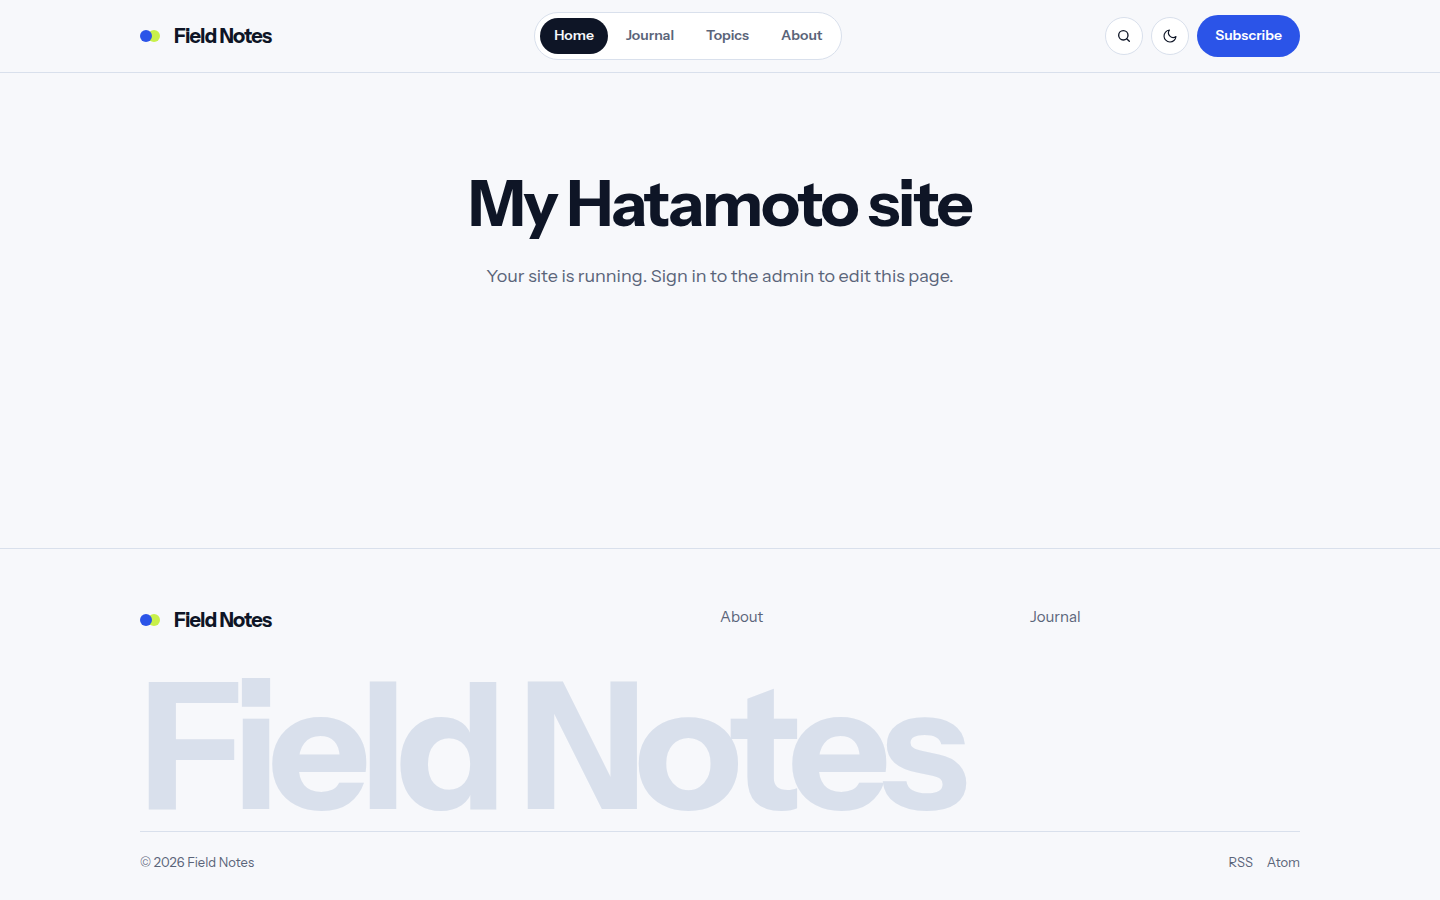
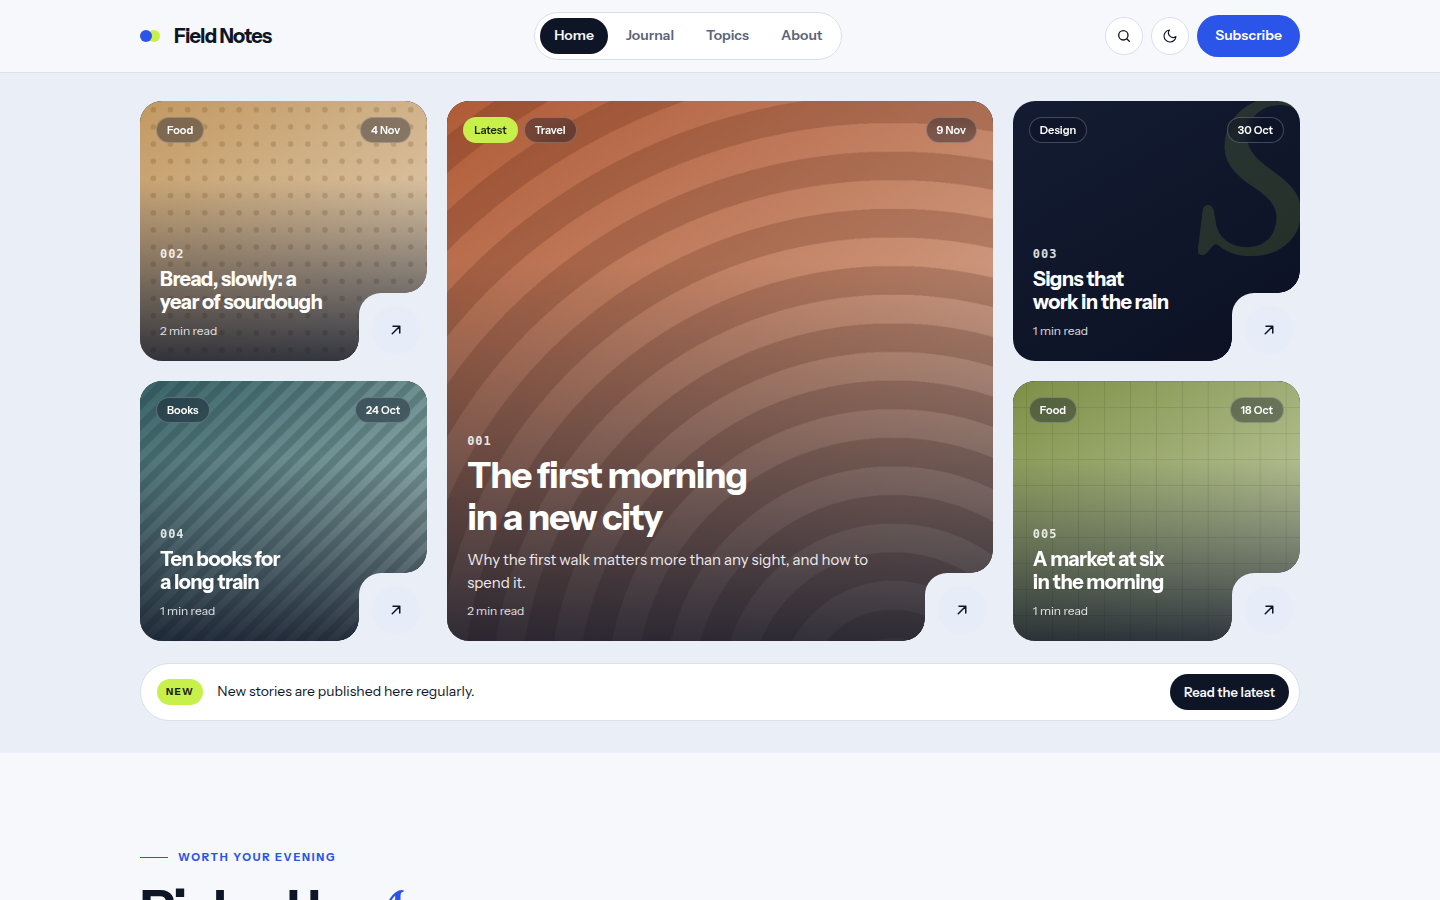
feat(wa): readme, changelog and registry screenshot

diff --git a/themes/wa/README.md b/themes/wa/README.md
@@ -2,6 +2,8 @@
 
 Bold magazine blog theme: a mosaic hero of notched image cards, numbered picks, topic chips and a night band, in cobalt and lime on cool paper.
 
+"Wa" is the Japanese word for a ring and for harmony. Rounded cards with one square notch, one strong colour, one sharp accent. Light and dark.
+
 ![Wa](assets/screenshot.png)
 
 A theme for [Hatamoto](https://hatamoto.dev), built for blog sites.
@@ -19,16 +21,60 @@ hatamoto theme activate wa
 Layouts and sections the theme does not ship come from the built-in theme, so every
 page keeps rendering.
 
+## What it ships
+
+- Home, single post, plain page, archive, category and tag, author, search and 404 layouts.
+- A header with a pill menu, search, a colour toggle and a button; a menu that works without JavaScript on small screens.
+- A home page filled from your posts and topics: a mosaic hero of the latest five, an announcement pill, numbered picks, a ticker, topic chips, a dark band with an archive grid and a newsletter call to action, and a reading queue. Every block hides itself when there is nothing to show.
+- Posts with a contents list, a drop cap, share buttons, a byline and author box, previous and next links and more from the same topic.
+- Cards without a featured image get a typographic tile, drawn inline.
+- Light and dark. No JavaScript is needed for anything except the colour toggle.
+
 ## Settings
 
-**Theme > Themes > Wa > Settings**:
+**Theme > Themes > Wa > Settings**. Every setting has a default.
 
-| Setting | Default | What it does |
-| --- | --- | --- |
-| Colour mode | `light` | what a first visit shows: `light`, `dark` or `auto` (follows the system); visitors can still switch |
-| Spacing | `comfortable` | `compact` tightens the space between sections |
+| Setting | Type | Default | What it does |
+| --- | --- | --- | --- |
+| Colour mode (`color_mode`) | `light`, `dark`, `auto` | `auto` | What a first visit shows; `auto` follows the system. Visitors can still switch with the header toggle. |
+| Spacing (`density`) | `comfortable`, `compact` | `comfortable` | `compact` tightens the space between sections. |
+| Show the ticker (`show_ticker`) | on/off | on | The strip of topics and recent titles under the picks. |
+| Show topics (`show_topics`) | on/off | on | The topic chips section. |
+| Show the archive band (`show_archive_band`) | on/off | on | The dark band with older stories (needs more than five posts). |
+| Show the newsletter block (`show_newsletter`) | on/off | on | The call to action in the dark band. It links to a page and has no form. |
+| Picks heading (`picks_heading`) | text | `Picked by` | Heading of the picks section. |
+| Picks accent word (`picks_accent`) | text | empty | The italic word after it. Empty uses the first name of the featured post's author, or "us". |
+| Archive heading, accent, end (`archive_heading`, `archive_accent`, `archive_tail`) | text | `Worth a`, `second`, `read` | The archive band heading. |
+| Reading queue heading, accent, end (`queue_heading`, `queue_accent`, `queue_tail`) | text | `Don't`, `miss`, `these` | The last section's heading. |
+| Announcement text (`announce_text`) | text | `New stories are published here regularly.` | The pill under the hero. Empty hides it. |
+| Announcement button (`announce_label`) | text | `Read the latest` | The button in the pill; empty hides the button. |
+| Announcement link (`announce_url`) | text | `/blog` | Where the button goes. |
+| Newsletter heading, accent, end (`newsletter_heading`, `newsletter_accent`, `newsletter_tail`) | text | `Stay in`, `the loop`, empty | The newsletter heading. |
+| Newsletter text (`newsletter_text`) | text | `Find out what is new, in one place.` | One line under the heading. |
+| Newsletter button (`newsletter_button`) | text | `Subscribe` | The button label; also the header button when the site has no header button of its own. |
+| Newsletter link (`newsletter_url`) | text | `/about` | Where that button goes, for example a page with your sign-up form. |
+| Signal colour (`signal_colour`) | hex colour | `#c8f04a` | The accent on chips, badges and the newsletter button. Text on it is a fixed dark ink, so choose a **light** colour; a dark value makes that text hard to read. It is a plain text field: type a value such as `#c8f04a`. |
+| Journal link (`archive_url`) | text | `/blog` | Where the "All stories" links and the 404 button lead. |
+| Home page sections (`home_sections`) | on/off | off | Prints the blocks of the home page built in the editor below the generated sections. |
 
-Colours, fonts and corners follow **Theme > Colours and fonts**.
+Empty text settings fall back to their defaults, except the announcement text, the
+announcement button and the newsletter heading end, which hide their part.
+
+## Colours and fonts
+
+**Theme > Colours and fonts** restyles the primary colour, background, text, fonts and
+corners. The owner's colours drive light mode; in dark mode the primary is derived from
+yours (lightened) and the paper and panel tones are the theme's own, so dark mode stays
+readable. Choose a mid or dark primary: white text sits on it in light mode, and a very light
+colour such as yellow will not reach a readable contrast there. The lime signal colour is
+separate, see above.
+
+## Fonts
+
+[Instrument Sans](https://fonts.google.com/specimen/Instrument+Sans) (headings and text) and
+[Fraunces](https://fonts.google.com/specimen/Fraunces) (italic accent words only), both under
+the SIL Open Font License 1.1, self-hosted in `assets/fonts/` with their licences
+(`LICENSE.txt` in each folder).
 
 ## Develop
 
@@ -36,7 +82,7 @@ From the root of the `hatamoto-themes` repository:
 
 ```sh
 scripts/dev-site.sh blog themes/wa --serve   # a seeded local site with this theme, live reload
-scripts/check.sh themes/wa                            # the full check: package, render, browser, screenshot
+scripts/check.sh themes/wa --screenshot      # the full check, and the registry preview
 ```
 
 `dev/` is not part of the package.

diff --git a/themes/wa/CHANGELOG.md b/themes/wa/CHANGELOG.md
@@ -2,4 +2,8 @@
 
 ## 0.1.0
 
-- First version.
+- First release: a magazine blog theme with a mosaic hero of notched image cards, numbered picks, a ticker, topic chips, a night band and a reading queue.
+- Layouts for home, post, page, archive, category and tag, author, search and 404.
+- Light and dark modes with a header toggle; colours, fonts and corners follow Theme > Colours and fonts.
+- Settings for colour mode, spacing, section toggles, headings, announcement, newsletter and signal colour.
+- Instrument Sans and Fraunces italic, self-hosted.
